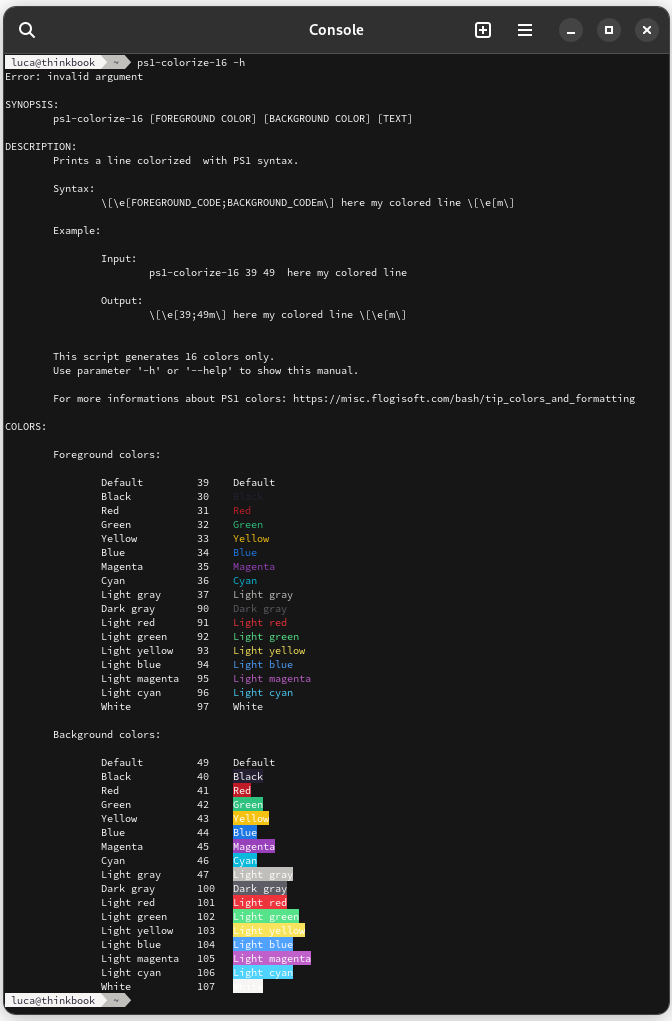
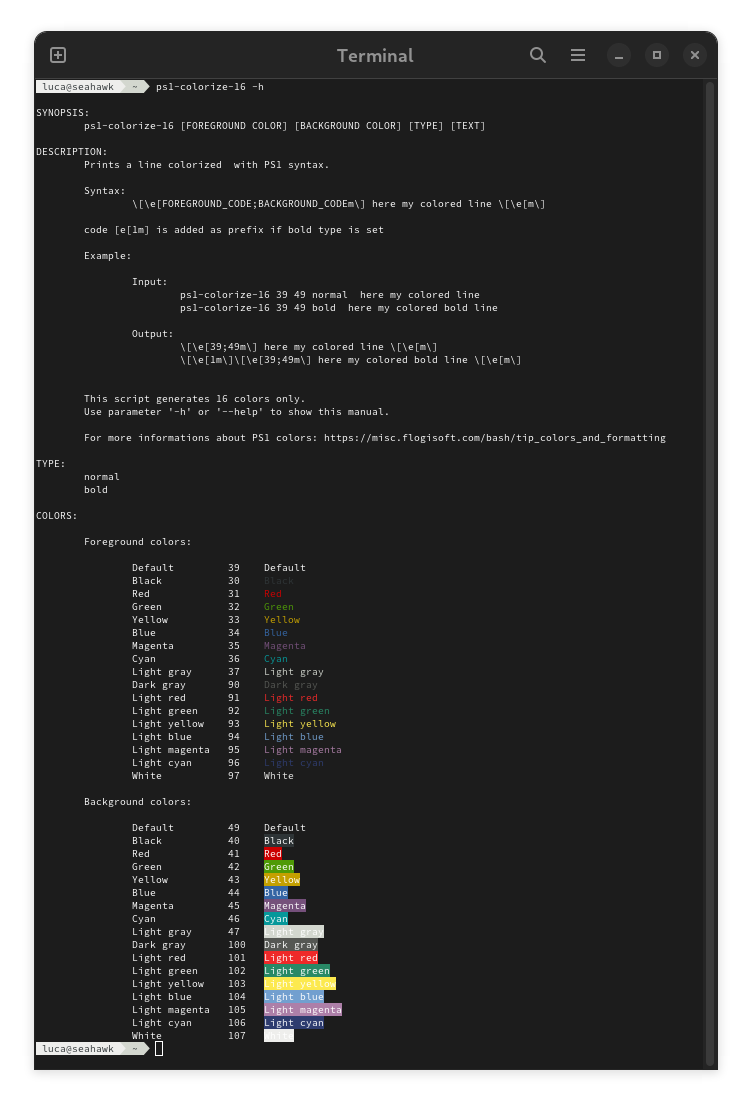
now ps1-colorize-16 supports bold text; all themes are updated to support this new function

diff --git a/readme.md b/readme.md
@@ -8,7 +8,7 @@ A set of tools to easily customize Bash.
 ps1-colorize-16
 
 SYNOPSIS: 
-	ps1-colorize-16 [FOREGROUND COLOR] [BACKGROUND COLOR] [TEXT]
+	ps1-colorize-16 [FOREGROUND COLOR] [BACKGROUND COLOR] [TYPE] [TEXT]
 
 DESCRIPTION:
 	Prints a line colorized  with PS1 syntax.
@@ -16,19 +16,27 @@ DESCRIPTION:
 	Syntax:
 		\[\e[FOREGROUND_CODE;BACKGROUND_CODEm\] here my colored line \[\e[m\]
 
+	code "\[\e[1m\]" is added as prefix if bold type is set
+
 	Example:
 
 		Input:
-			ps1-colorize-16 39 49 " here my colored line "
+			ps1-colorize-16 39 49 normal " here my colored line "
+			ps1-colorize-16 39 49 bold " here my colored bold line "
 
 		Output:
 			\[\e[39;49m\] here my colored line \[\e[m\]
+			\[\e[1m\]\[\e[39;49m\] here my colored bold line \[\e[m\]
 		
 	
 	This script generates 16 colors only.
 	Use parameter '-h' or '--help' to show this manual.
 	
 	For more informations about PS1 colors: https://misc.flogisoft.com/bash/tip_colors_and_formatting
+
+TYPE:
+	normal
+	bold
 
 COLORS:
 	
@@ -81,7 +89,7 @@ The script is invoked by the PS1 Themer package themes to customize your termina
 There are currently two themes available:
 - **ps1-luku-theme** (main theme)
 - **ps1-luku-squared-theme** (main theme variant, no Unicode symbols used)
-- **ps1-luku-simple-theme** (main theme variant without special/stylish separators)
+- **ps1-luku-simple-theme** (main theme variant without special/stylish separators and Ubuntu-like colors)
 
 ## Luku themes features
 - light and dark variants
